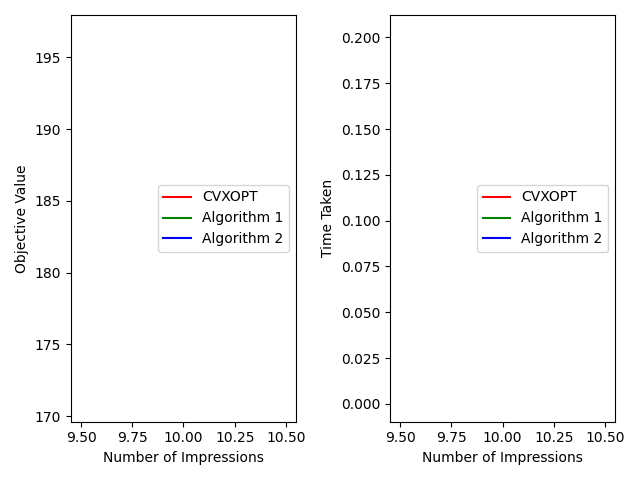
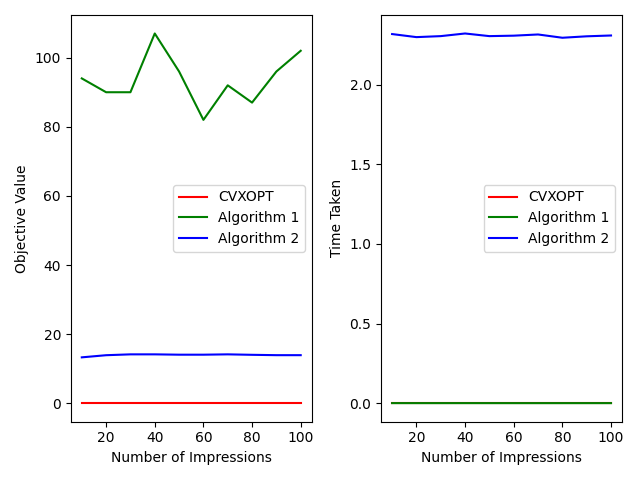
big data attempt

diff --git a/synthetic instances/main.py b/synthetic instances/main.py
@@ -5,11 +5,11 @@ import graph
 import optimal
 import alg1
 import alg2
+import oldAlg2
 import matplotlib.pyplot as plt
 from advertiser import Advertiser
 from impression import Impression
 import seaborn as sns
-import brokenAlg1
 import data
 
 def frange(start, stop, step):
@@ -51,15 +51,16 @@ def main():
     optSolvedArr, alg1solvedArr, alg2solvedArr = [], [], []
     optTimeArr, alg1TimeArr, alg2TimeArr = [], [], []
     optObjArr, alg1ObjArr, alg2ObjArr = [], [], []
-    Oalg1solvedArr, Oalg1TimeArr, Oalg1ObjArr = [], [], []
     numImpsArr = []
     count = 0
     for loop in range(10):
         print(loop)
         count += 10
-        a, i, w = createSyntheticInstance(10, count)
+        # a, i, w = createSyntheticInstance(10, count, corruptNum=3)
+        numA, numI, w = bigData()
+        a, i, _ = createSyntheticInstance(numA, numI, corruptNum=3)
         # Optimal Algorithm
-        if count <= 10:
+        if count <= -1:
             optSolved, optTimeTaken = (optimal.lpSolve(a,i,w))
             optObj = objectiveValue(optSolved, w)
             optSolvedArr.append(optSolved)
@@ -87,60 +88,15 @@ def main():
         print("Alg2 Objective Value:", alg2Obj)
         print("Time Taken:", alg2TimeTaken)
         # Graphing
-    #     objArr = [optObjArr[loop], alg1ObjArr[loop], Oalg1ObjArr[loop]]
-    #     timeArr = [optTimeArr[loop],alg1TimeArr[loop], Oalg1TimeArr[loop]]
-    #     impsObjVal[count] = objArr
-    #     impsTime[count] = timeArr
-    # numImpsArr = list(impsObjVal.keys())
-    # numImpsArr.sort()
-    # sortedImpsObjVal = [impsObjVal[i] for i in numImpsArr]
-    # sortedImpsTime = [impsTime[i] for i in numImpsArr]
-    # graph.graphObjandTimeVsImps(sortedImpsObjVal, sortedImpsTime, numImpsArr)
-
-def test():
-    a, i = createSyntheticInstance(50,1000,1)
-    weights = optimal.createVectorC(a,i)
-    roundsArr, epsArr, lamArr, maxOverflowArr, timeArr, objArr = [], [], [], [], [], [] 
-
-    for rounds in range (1,100):
-        print("Rounds:", rounds)
-        alg2Solved, alg2TimeTaken, maxOverflow = alg2.solve(a,i,weights,0.25,0.21,rounds)
-        alg2Obj = objectiveValue(alg2Solved, weights)
-        roundsArr.append(rounds)
-        maxOverflowArr.append(maxOverflow)
-        timeArr.append(alg2TimeTaken)
-        objArr.append(alg2Obj)
-    graph.graph(roundsArr, maxOverflowArr, "Rounds", "MaximumBudgetOverflow")
-    graph.graph(roundsArr, timeArr, "Rounds", "TimeTaken")
-    graph.graph(roundsArr, objArr, "Rounds", "ObjectiveValue")
-
-    # roundsArr, epsArr, lamArr, maxOverflowArr, timeArr, objArr = [], [], [], [], [], [] 
-
-    # for eps in frange(0.01,1.0,0.025):
-    #     print("Epsilon:", eps)
-    #     alg2Solved, alg2TimeTaken, maxOverflow = alg2.solve(a,i,weights,0.5,eps,20)
-    #     alg2Obj = objectiveValue(alg2Solved, weights)
-    #     epsArr.append(eps)
-    #     maxOverflowArr.append(maxOverflow)
-    #     timeArr.append(alg2TimeTaken)
-    #     objArr.append(alg2Obj)
-    # graph.graph(epsArr, maxOverflowArr, "Epsilon", "MaximumBudgetOverflow")
-    # graph.graph(epsArr, timeArr, "Epsilon", "TimeTaken")
-    # graph.graph(epsArr, objArr, "Epsilon", "ObjectiveValue")
-
-    # roundsArr, epsArr, lamArr, maxOverflowArr, timeArr, objArr = [], [], [], [], [], []
-
-    # for lam in frange(0.05,1.0,0.025):
-    #     print("Lambda:", lam)
-    #     alg2Solved, alg2TimeTaken, maxOverflow = alg2.solve(a,i,weights,lam,0.9,20)
-    #     alg2Obj = objectiveValue(alg2Solved, weights)
-    #     lamArr.append(lam)
-    #     maxOverflowArr.append(maxOverflow)
-    #     timeArr.append(alg2TimeTaken)
-    #     objArr.append(alg2Obj)
-    # graph.graph(lamArr, maxOverflowArr, "Lambda", "MaximumBudgetOverflow")
-    # graph.graph(lamArr, timeArr, "Lambda", "TimeTaken")
-    # graph.graph(lamArr, objArr, "Lambda", "ObjectiveValue")
+        objArr = [optObjArr[loop], alg1ObjArr[loop], alg2ObjArr[loop]]
+        timeArr = [optTimeArr[loop],alg1TimeArr[loop], alg2TimeArr[loop]]
+        impsObjVal[count] = objArr
+        impsTime[count] = timeArr
+    numImpsArr = list(impsObjVal.keys())
+    numImpsArr.sort()
+    sortedImpsObjVal = [impsObjVal[i] for i in numImpsArr]
+    sortedImpsTime = [impsTime[i] for i in numImpsArr]
+    graph.graphObjandTimeVsImps(sortedImpsObjVal, sortedImpsTime, numImpsArr)
 
 def tuneEpsLam():
     aArr, iArr, weightsArr = [], [], []
@@ -173,13 +129,13 @@ def tuneEpsLam():
     plt.title('Objective Value Heatmap')
     plt.show()
 
-def testSnap():
+def bigData():
     dataset = data.read_data()
-    df, advNum, impNum = data.dataToDF(dataset, advNum=100)
-    weights = data.createWeightMatrix(df, advNum, impNum)
+    df, advNum, maxImpId = data.dataToDF(dataset, advNum=1000)
+    weights, impNum = data.createWeightMatrix(df, advNum, maxImpId)
+    print(impNum)
+    return advNum, impNum, weights
 
-
-# testSnap()
 main()
 # test()
 # tuneEpsLam() # lam = 0.25, eps = 0.435

diff --git a/Synthetic Instances/data.py b/Synthetic Instances/data.py
@@ -4,7 +4,7 @@ import advertiser
 import impression
 
 #reading the data
-def read_data(file_path = 'C:/Users/forev/Documents/GitHub/rise-interns-aene/Synthetic Instances/data.txt', lines = 728):
+def read_data(file_path = '/Users/aravchadha/Documents/GitHub/rise-interns-aene/Synthetic Instances/data.txt', lines = 728):
     data = []
     file = open(file_path, 'r', encoding='utf-8')
     for line in file:
@@ -38,12 +38,12 @@ def dataToDF(data, advNum=15):
     df_filtered = df[~mask]
 
     #find n dim of xmatrix
-    impNum = len(pd.unique(df['Impression']))
 
-    return df_filtered, advNum, impNum
+    return df_filtered, advNum, int(df['Impression'].max())
 
 #creating the matrix
-def createWeightMatrix(df, advNum, impNum, tempN=800):
+def createWeightMatrix(df, advNum, maxImpId):
+    tempN = 10000
     weightMatrix = np.zeros((advNum, tempN))
     
     currAdv = 0
@@ -54,13 +54,14 @@ def createWeightMatrix(df, advNum, impNum, tempN=800):
             count += 1
         weightMatrix[count][int(row['Impression'])] = row['Weight']
     
-    droppedColumns = []
+    droppedColumns = [] 
     for i in range(len(weightMatrix[0])):
         if np.array_equal(weightMatrix[:,i], np.zeros(advNum)):
             droppedColumns.append(i)
 
     weightMatrix = np.delete(weightMatrix, droppedColumns, axis=1)
-    return weightMatrix
+    impNum = weightMatrix.shape[1]
+    return weightMatrix.ravel().tolist(), impNum
 
 
 
